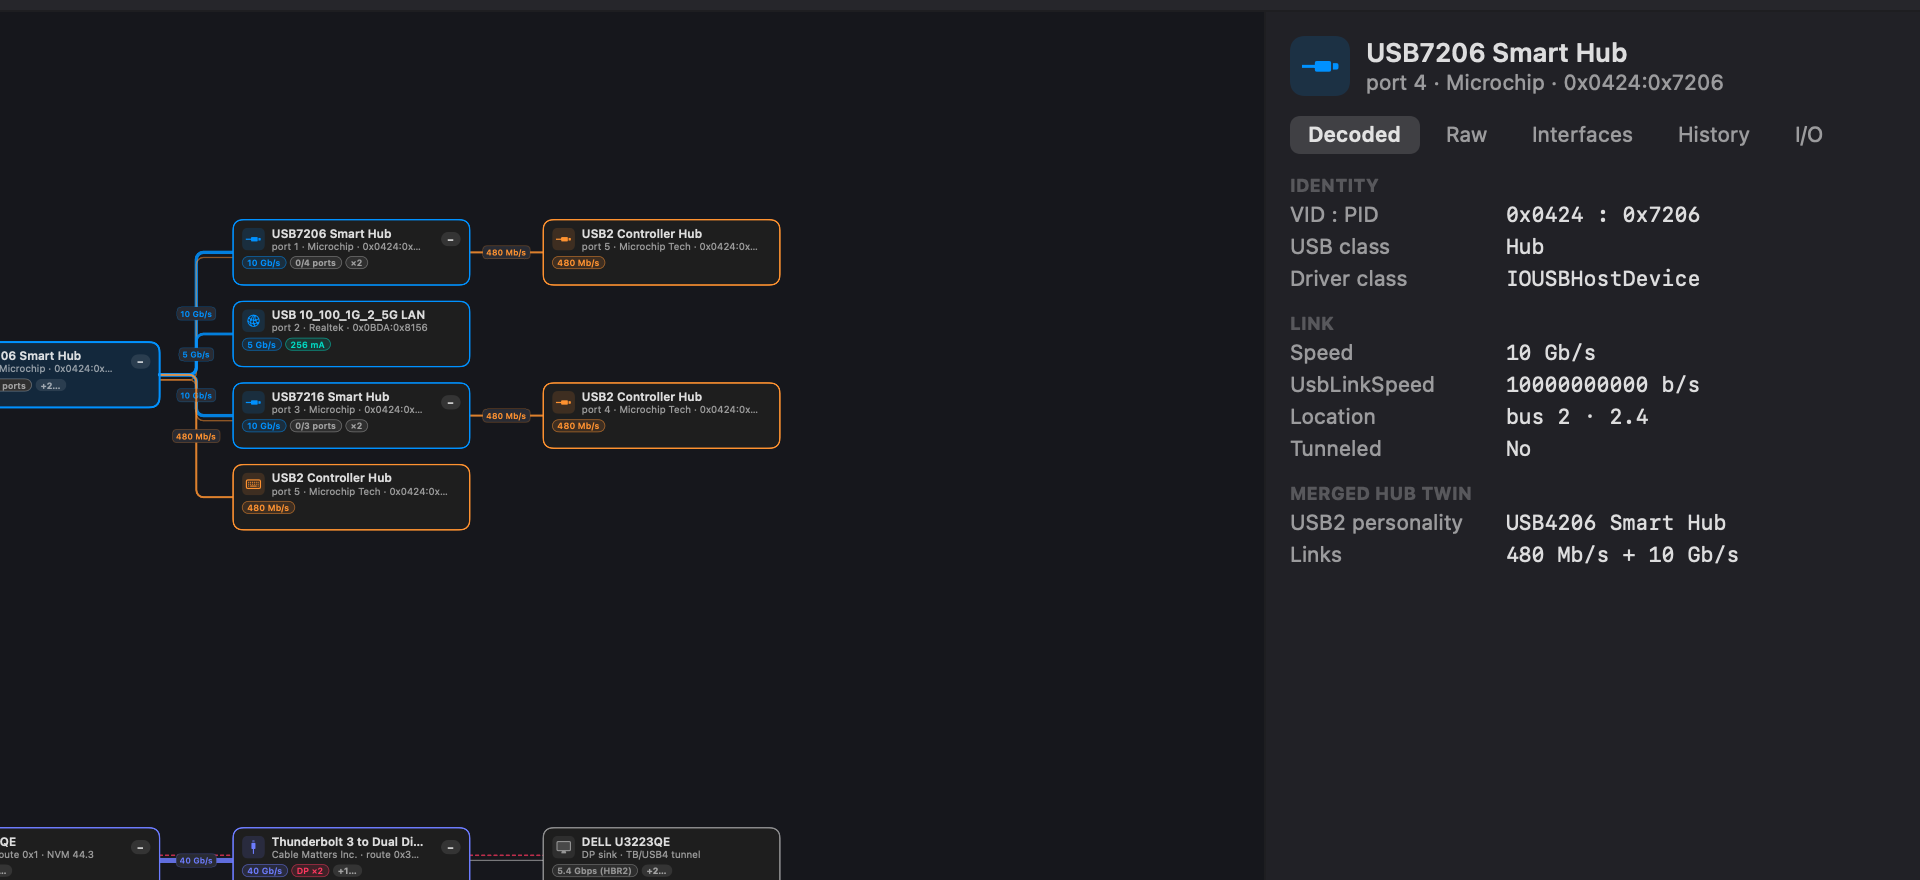
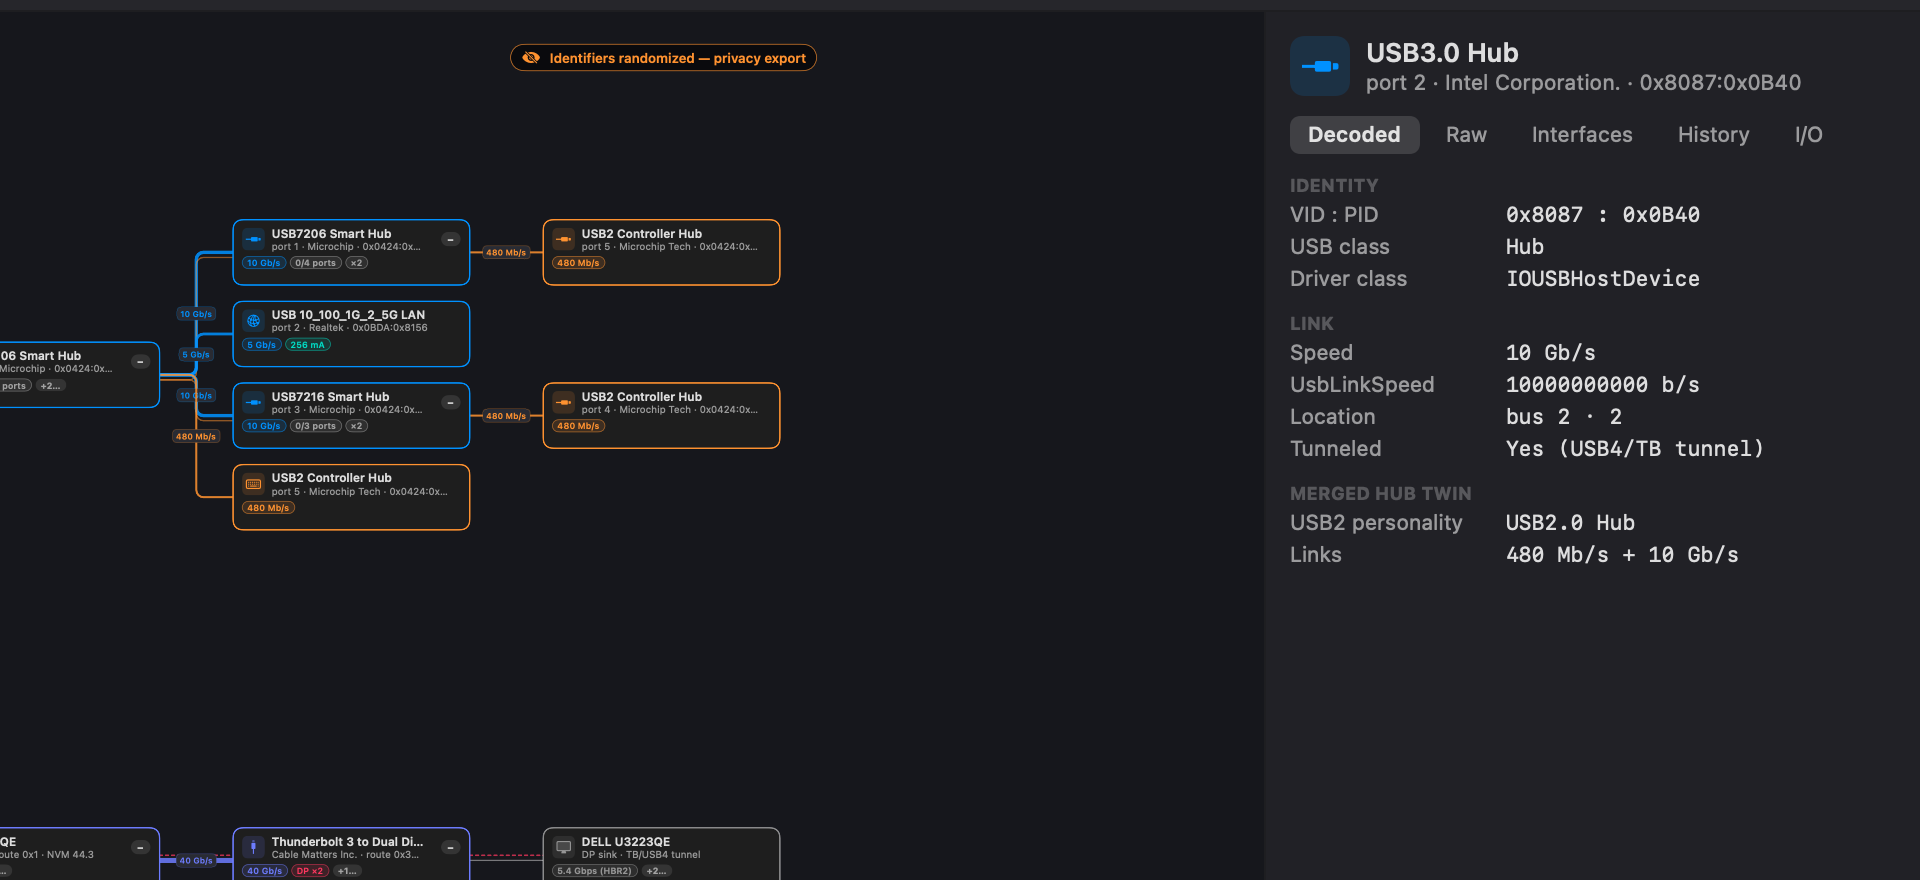
Privacy exports carry a visible in-image disclosure badge
Redacted renders (graph export + composer screenshot) now stamp
'Identifiers randomized — privacy export' top-right — a shared image
says itself that its serials/UIDs are synthetic. README screenshots
regenerated with the badge.

diff --git a/Sources/Portree/GraphView.swift b/Sources/Portree/GraphView.swift
@@ -360,6 +360,20 @@ struct GraphCanvas: View {
             }
         }
         .frame(width: layout.size.width, height: layout.size.height)
+        .overlay(alignment: .topTrailing) {
+            // Privacy exports must say so IN the image — a reader has no
+            // other way to know the serials/UIDs they see were randomized.
+            if store.snapshot?.redacted == true {
+                Label("Identifiers randomized — privacy export", systemImage: "eye.slash.fill")
+                    .font(.system(size: 13, weight: .semibold))
+                    .foregroundStyle(.orange)
+                    .padding(.horizontal, 10)
+                    .padding(.vertical, 5)
+                    .background(.black.opacity(0.55), in: Capsule())
+                    .overlay(Capsule().stroke(.orange.opacity(0.6), lineWidth: 1))
+                    .padding(12)
+            }
+        }
     }
 }
 
